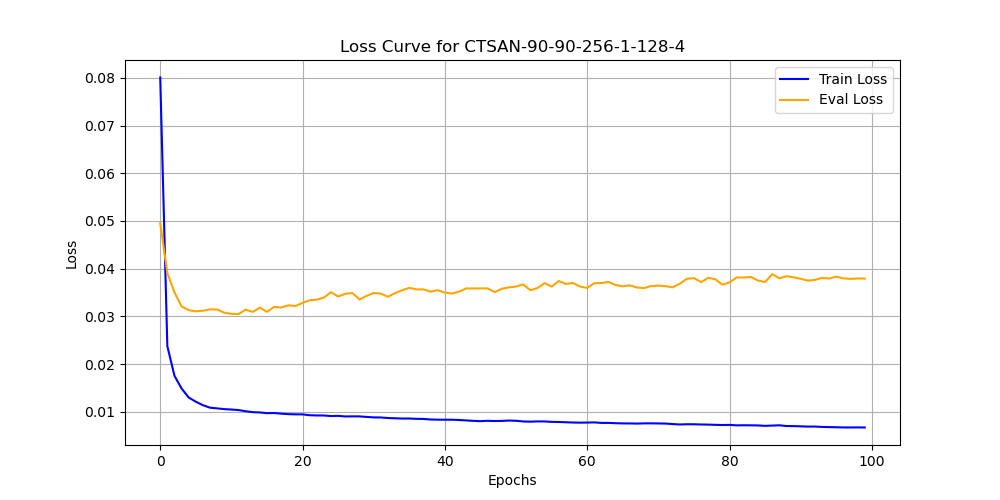
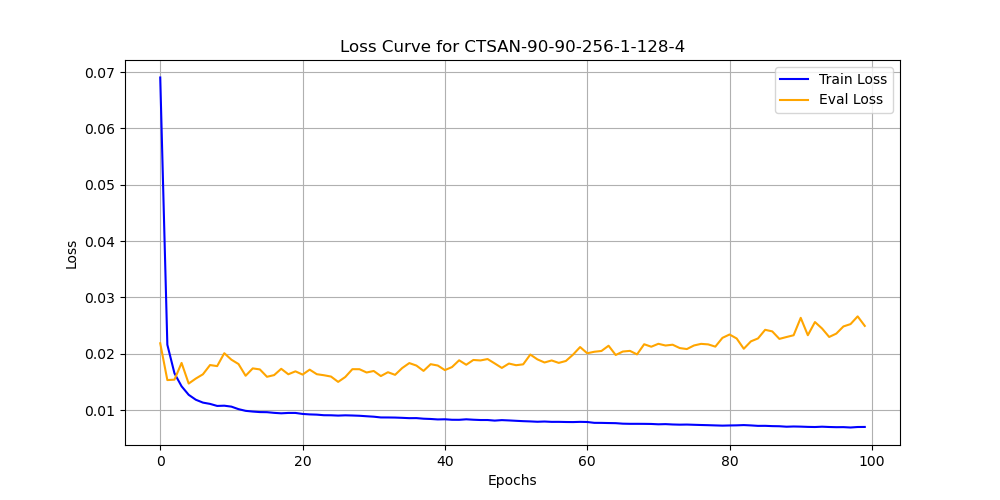
readme: run again

diff --git a/README.md b/README.md
@@ -26,7 +26,7 @@ results
 90 days for 5 per experiment results
 
 ```text
-Task 1 (90 days) results: MSE = 0.0027 ± 0.0001, MAE = 0.0404 ± 0.0005
+Task 1 (90 days) results: MSE = 0.0308 ± 0.0018, MAE = 0.1358 ± 0.0033
 ```
 
 loss
@@ -41,7 +41,7 @@ Ground truth and prediction
 365 days for 5 per experiment results
 
 ```text
-Task 1 (365 days) results: MSE = 0.0037 ± 0.0001, MAE = 0.0475 ± 0.0005
+Task 1 (365 days) results: MSE = 0.0182 ± 0.0003, MAE = 0.1057 ± 0.0011
 ```
 
 loss
@@ -76,7 +76,7 @@ results
 90 days for 5 per experiment results
 
 ```text
-Task 2 (90 days) results: MSE = 0.0045 ± 0.0001, MAE = 0.0523 ± 0.0006
+Task 2 (90 days) results: MSE = 0.0269 ± 0.0000, MAE = 0.1314 ± 0.0000
 ```
 
 loss
@@ -91,7 +91,7 @@ Ground truth and prediction
 
 365 days for 5 per experiment results
 ```text
-Task 2 (365 days) results: MSE = 0.0068 ± 0.0000, MAE = 0.0645 ± 0.0002
+Task 2 (365 days) results: MSE = 0.0204 ± 0.0006, MAE = 0.1124 ± 0.0018
 ```
 
 loss
@@ -115,7 +115,7 @@ results
 90 days for 5 per experiment results
 
 ```text
-Task 3 (90 days) results: MSE = 0.0065 ± 0.0001, MAE = 0.0624 ± 0.0007
+Task 3 (90 days) results: MSE = 0.0215 ± 0.0031, MAE = 0.1172 ± 0.0089
 ```
 
 loss
@@ -130,7 +130,7 @@ Ground truth and prediction
 
 365 days for 5 per experiment results
 ```text
-Task 3 (365 days) results: MSE = 0.0080 ± 0.0001, MAE = 0.0702 ± 0.0003
+Task 3 (365 days) results: MSE = 0.0197 ± 0.0021, MAE = 0.1107 ± 0.0063
 ```
 
 loss
